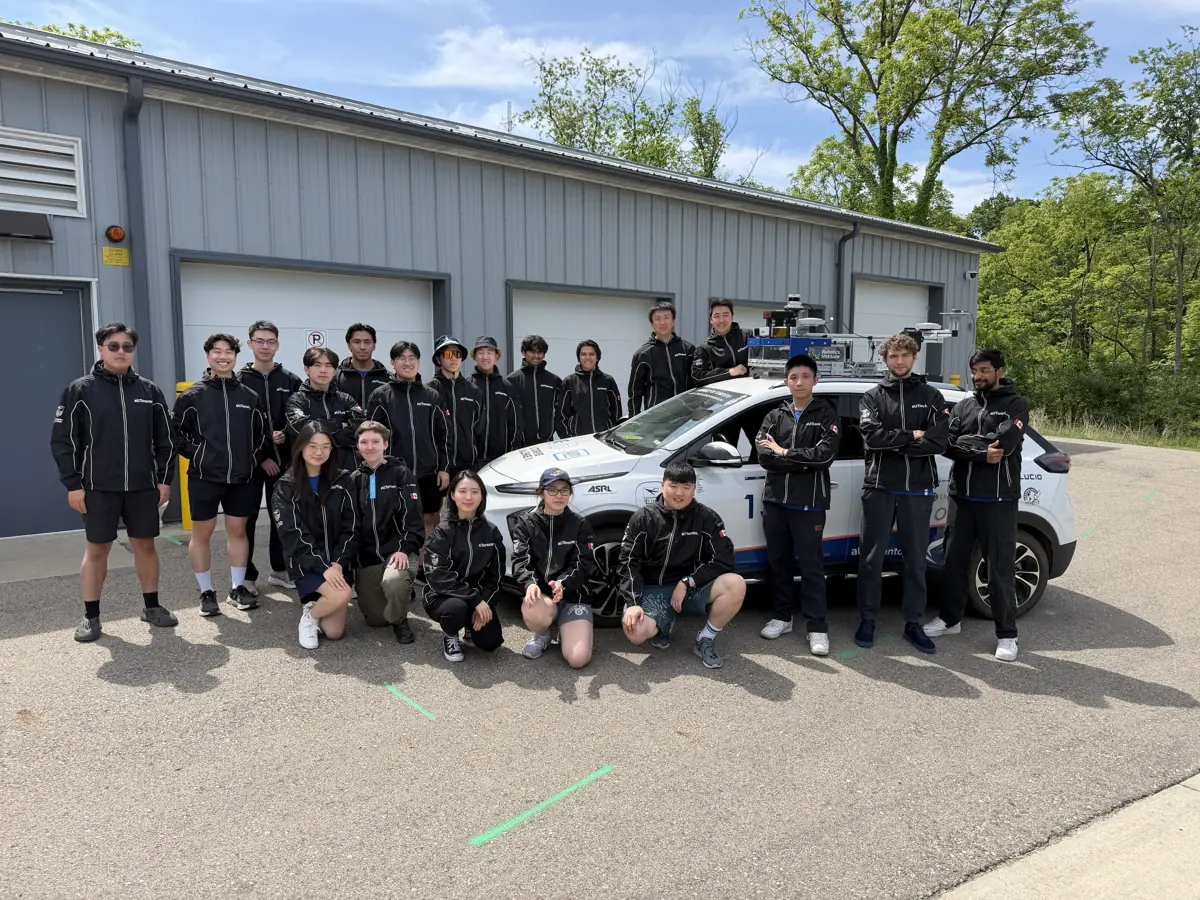
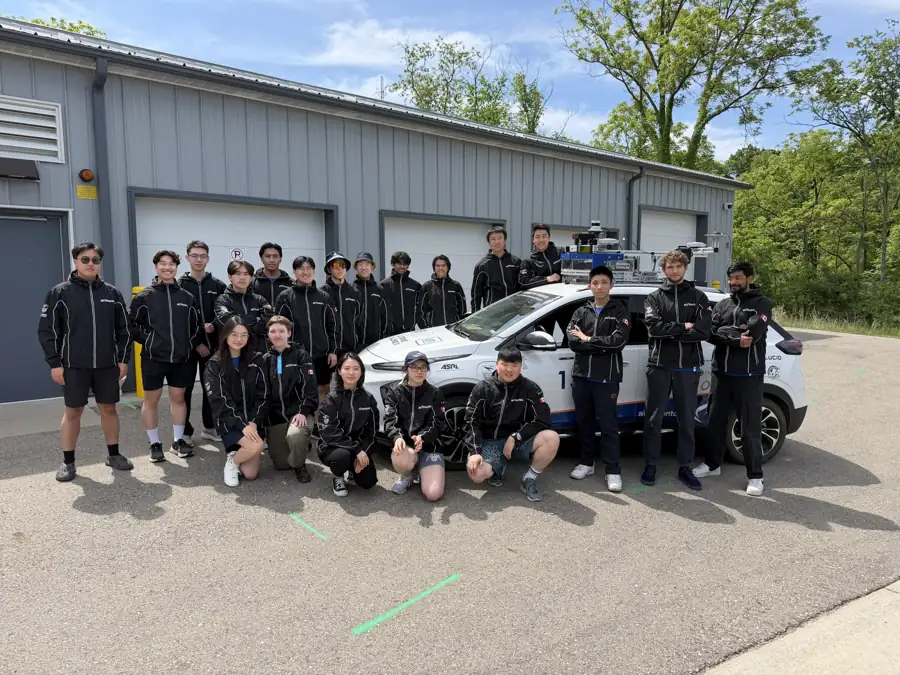
Add files via upload

Changed region(s): [[0.7156, 0.1244, 0.7467, 0.1556]]

diff --git a/members/4list233/index.html b/members/4list233/index.html
@@ -28,14 +28,9 @@
       .hero-photo { justify-self: start; width: min(100%, 260px); order: -1; }
     }
 
-    /* Brand mark: a favicon-sized logo in a soft square. */
-    .brand {
-      flex: none; display: grid; place-items: center; width: 46px; height: 46px;
-      border-radius: 12px; overflow: hidden; background: var(--rcet-pale); color: var(--rcet-navy);
-      font: 700 15px/1 var(--rcet-font-display); letter-spacing: -.02em;
-    }
-    .brand img { width: 100%; height: 100%; object-fit: cover; }
-    .brand--pad img { width: 30px; height: 30px; object-fit: contain; }
+    /* Brand mark: each organisation's own icon, shown clean at 46px. */
+    .brand { flex: none; display: block; width: 46px; height: 46px; }
+    .brand img { width: 46px; height: 46px; object-fit: contain; border-radius: 10px; }
 
     /* "Now" cards. Two cards fill the row. */
     .now-grid { grid-template-columns: repeat(auto-fit, minmax(min(100%, 340px), 1fr)); }
@@ -61,9 +56,7 @@
     }
     .highlights p { margin: 0; color: var(--rcet-muted); max-width: 72ch; }
     .highlights p + p { margin-top: 8px; }
-    .highlights .awards { display: flex; flex-wrap: wrap; gap: 8px; margin: 14px 0 0; padding: 0; list-style: none; }
-    .photos { display: grid; gap: 14px; grid-template-columns: repeat(auto-fit, minmax(min(100%, 280px), 1fr)); margin-top: 20px; max-width: 900px; }
-    .photos img { width: 100%; aspect-ratio: 4 / 3; object-fit: cover; border-radius: var(--rcet-radius); box-shadow: var(--rcet-shadow); }
+    .highlights .awards { display: flex; flex-wrap: wrap; gap: 8px; margin: 14px 0 12px; padding: 0; list-style: none; }
     @media (max-width: 560px) {
       .highlights > li { grid-template-columns: 1fr; gap: 10px; }
     }
@@ -127,7 +120,7 @@
             <span class="rcet-mono">Founder · veloxsystems.ca ↗</span>
           </a>
           <div class="rcet-card now-card" data-reveal style="--i:1">
-            <span class="brand brand--pad"><img src="/shared/assets/brand/logo-256.png" alt="" width="30" height="30"></span>
+            <span class="brand"><img src="/shared/assets/brand/logo-256.png" alt="" width="46" height="46"></span>
             <h3>Rotman Commerce Emerging Technologies</h3>
             <p>Spearheading the adoption of technical tools and skills on the non-technical, business side of the Rotman Commerce community, so students can make AI their unfair advantage.</p>
             <div class="card-links">
@@ -149,7 +142,7 @@
         <ul class="highlights">
 
           <li data-reveal style="--i:0">
-            <span class="brand brand--pad"><img src="/shared/assets/brand/logo-256.png" alt="" width="30" height="30"></span>
+            <span class="brand"><img src="/shared/assets/brand/logo-256.png" alt="" width="46" height="46"></span>
             <div>
               <b>President, Rotman Commerce Emerging Technologies</b>
               <span class="when">Jan 2026 – present · Operations Manager since Mar 2025</span>
@@ -167,19 +160,16 @@
           </li>
 
           <li data-reveal style="--i:2">
-            <span class="brand">aU</span>
+            <span class="brand"><img src="./autoronto-icon.png" alt="" width="46" height="46"></span>
             <div>
-              <b>aUToronto design team · SAE AutoDrive Challenge II</b>
+              <b><a href="https://www.autodrive.utoronto.ca/" rel="noopener">aUToronto</a> design team · SAE AutoDrive Challenge II</b>
               <span class="when">Year 5 · 2026</span>
               <p>Joined the University of Toronto's self-driving car team for the final year of the AutoDrive Challenge II, working on the Mobility Innovations sensor-suite MVP and product management. The team placed first overall for the eighth time in nine years.</p>
               <ul class="awards" aria-label="Awards">
                 <li><span class="rcet-tag">1st place · Mobility Innovation Challenge</span></li>
                 <li><span class="rcet-tag">1st place · Static Events Overall</span></li>
               </ul>
-              <div class="photos">
-                <img src="./autoronto-team.webp" alt="The aUToronto team standing with the self-driving car at the 2026 AutoDrive Challenge II" loading="lazy" width="1400" height="1050">
-                <img src="./autoronto-awards.webp" alt="The aUToronto team with their AutoDrive Challenge II awards, including first place in the Mobility Innovation Challenge" loading="lazy" width="1400" height="1050">
-              </div>
+              <p><a href="https://www.autodrive.utoronto.ca/" rel="noopener">autodrive.utoronto.ca ↗</a></p>
             </div>
           </li>
 
